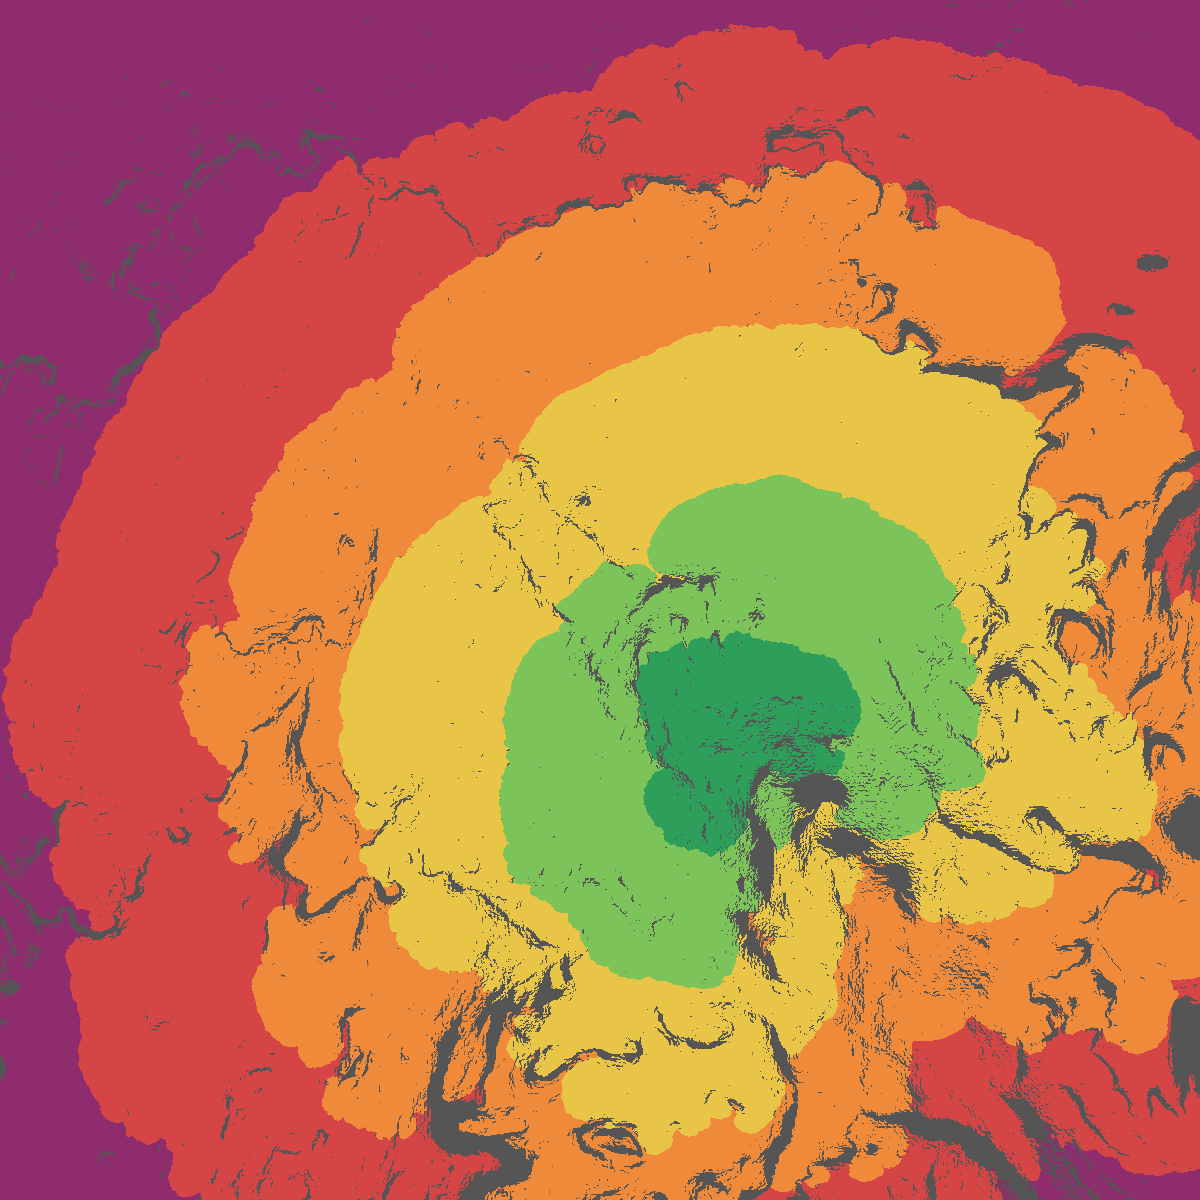
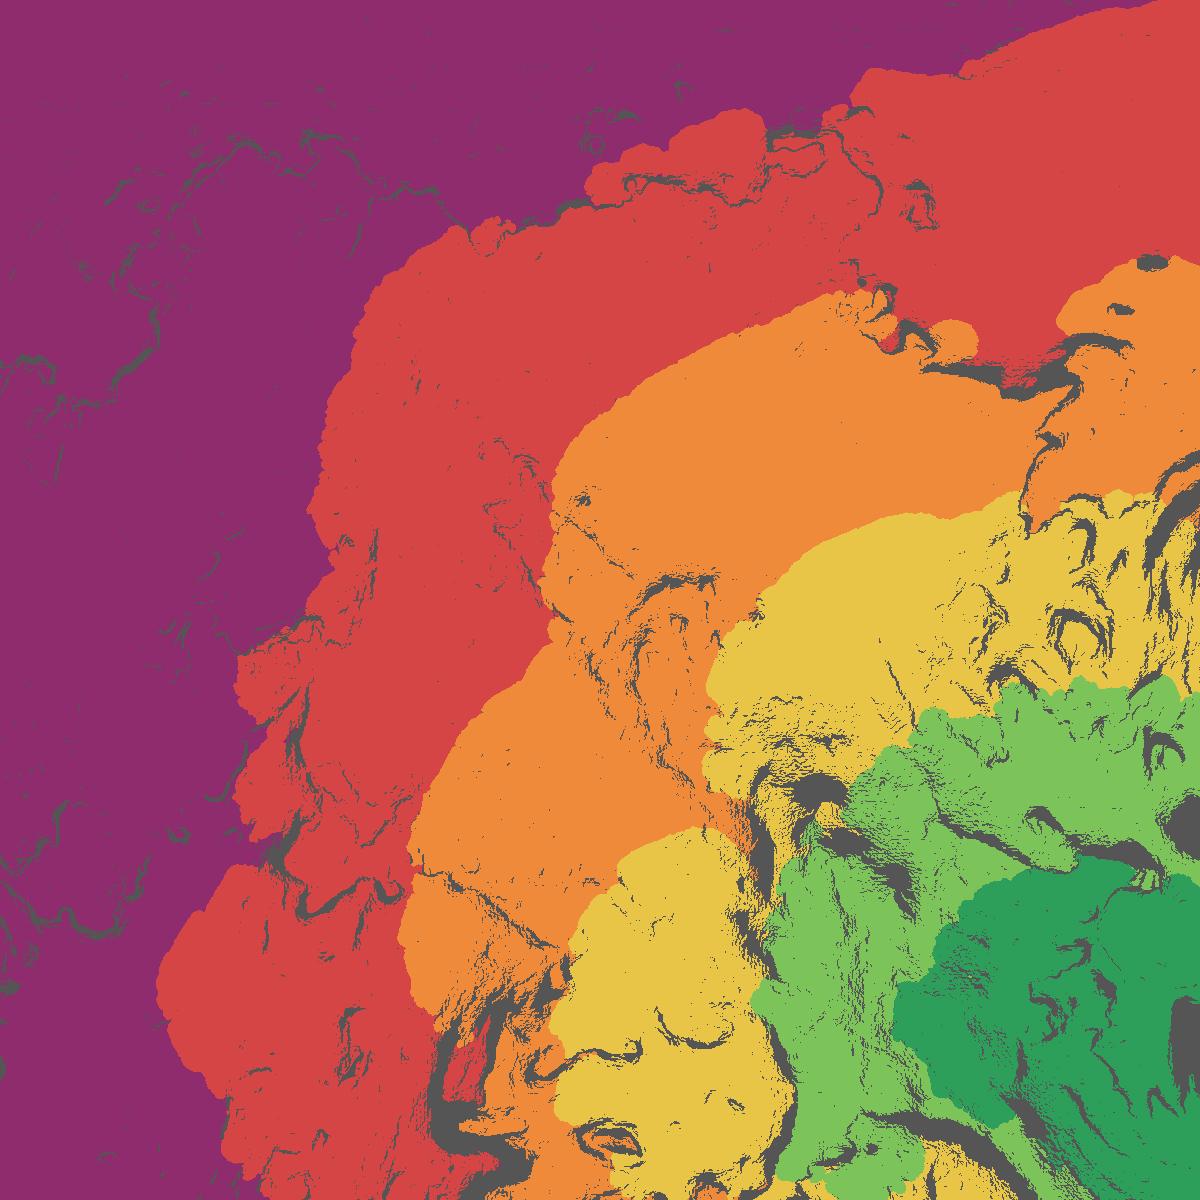
[arazi] route and return rings from Utku's area.json and stops.json; 15-min rings

diff --git a/arazi/return_rings.py b/arazi/return_rings.py
@@ -20,7 +20,7 @@ from skimage.graph import MCP_Geometric
 from arazi.geo import CACHE, MARS_GEO, ROOT, WEB, load_area, to_overlay_png
 from arazi.walk import o2_used_pct, speed_m_min
 
-BAND_MIN = 10                          # one colour band per 10 minutes
+BAND_MIN = 15                          # one colour band per 15 minutes
 BAND_COLORS = ["#2e9e5b", "#7cc35a", "#e8c547", "#ef8a3a", "#d64545", "#8e2c6e"]
 UNREACHABLE = "#555555"
 
